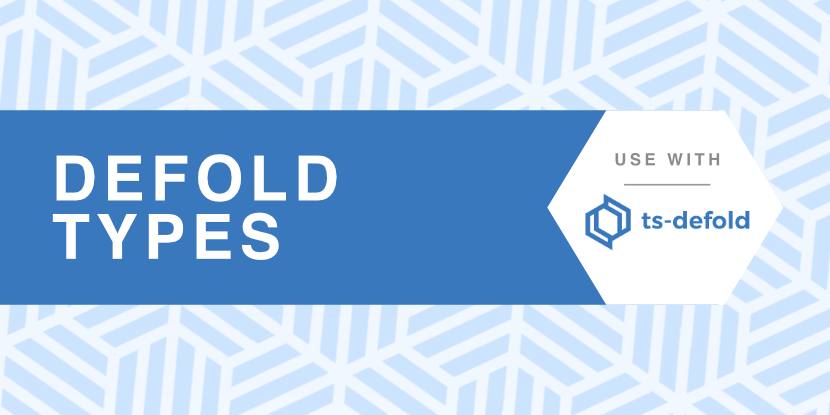
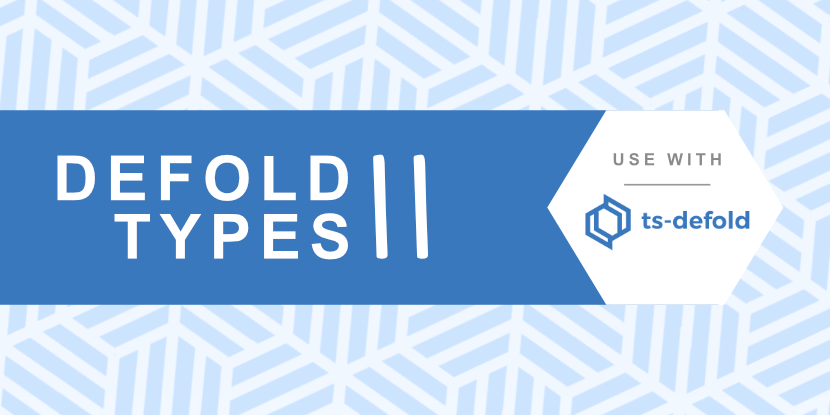
tweak(branding): minor name change

diff --git a/README.md b/README.md
@@ -1,6 +1,6 @@
 <img src="_docs/defold-types.png" alt="Defold Types">
 
-# Defold Types
+# TS-Defold Types II
 
 [![CI](https://github.com/thinknathan/ts-defold-types/actions/workflows/ci.yml/badge.svg)](https://github.com/thinknathan/ts-defold-types/actions/workflows/ci.yml) ![GitHub License](https://img.shields.io/github/license/thinknathan/ts-defold-types) <a href="https://discord.gg/eukcq5m"><img alt="Chat with us!" src="https://img.shields.io/discord/766898804896038942.svg?colorB=7581dc&logo=discord&logoColor=white"></a>
 
@@ -8,9 +8,9 @@
 
 ## This Fork
 
-This fork has more detailed types than the origin repo. My hand-written patch replaces many of the `any` keywords with specific types, sets constant values to use `const`, etc. See the changelog for details.
+This fork has more detailed types than the origin repo. Hand-written patches replace many of the `any` keywords with specific types, sets constant values to use `const`, etc. See the changelog for details.
 
-Can be used as a drop-in replacement of the original.
+This repo can be used as a drop-in replacement of the original.
 
 ## Installation
 
@@ -25,12 +25,6 @@ npm install git+https://git@github.com/thinknathan/ts-defold-types.git#^1.3.0 --
 # or
 pnpm install git+https://git@github.com/thinknathan/ts-defold-types.git -D
 ```
-
-### Shoutouts 📢
-
-[@dasannikov](https://github.com/dasannikov) and [DefoldTypescript](https://github.com/dasannikov/DefoldTypeScript) for a starting point and inspiration
-[TypeScriptToLua](https://github.com/TypeScriptToLua/TypeScriptToLua) for the awesome community and tools
-[@hazzard993](https://github.com/hazzard993), [@ark120202](https://github.com/ark120202), [@Perryvw](https://github.com/Perryvw) and all the fine folks over on the [tstl discord server](https://discord.gg/BWAq58Y).
 
 <p align="center" class="h4">
   TypeScript :heart: Defold
